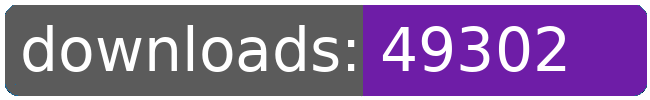
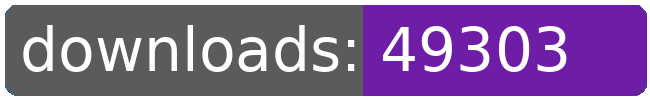
dl log written

Changed region(s): [[0.8308, 0.42, 0.8923, 0.72], [0.8, 0.27, 0.8615, 0.33]]

diff --git a/README.md b/README.md
@@ -21,8 +21,8 @@
 		<td>3393</td>
 		<td>3414</td>
 		<td>3435</td>
-		<td>3442</td>
-		<td>+ 7</td>
+		<td>3443</td>
+		<td>+ 8</td>
 	</tr>
 	<tr>
 		<td>aberrant.kahet.outfitter</td>
@@ -274,8 +274,8 @@
 		<td></td>
 		<td></td>
 		<td></td>
-		<td>49302</td>
-		<td>137</td>
+		<td>49303</td>
+		<td>138</td>
 	</tr>
 </table>
 </sub></sup>
@@ -322,8 +322,8 @@
 		<td>3393</td>
 		<td>3414</td>
 		<td>3435</td>
-		<td>3442</td>
-		<td>+ 7</td>
+		<td>3443</td>
+		<td>+ 8</td>
 	</tr>
 	<tr>
 		<td>capture.archons</td>
@@ -553,8 +553,8 @@
 		<td></td>
 		<td></td>
 		<td></td>
-		<td>49302</td>
-		<td>137</td>
+		<td>49303</td>
+		<td>138</td>
 	</tr>
 </table>
 </sub></sup>
